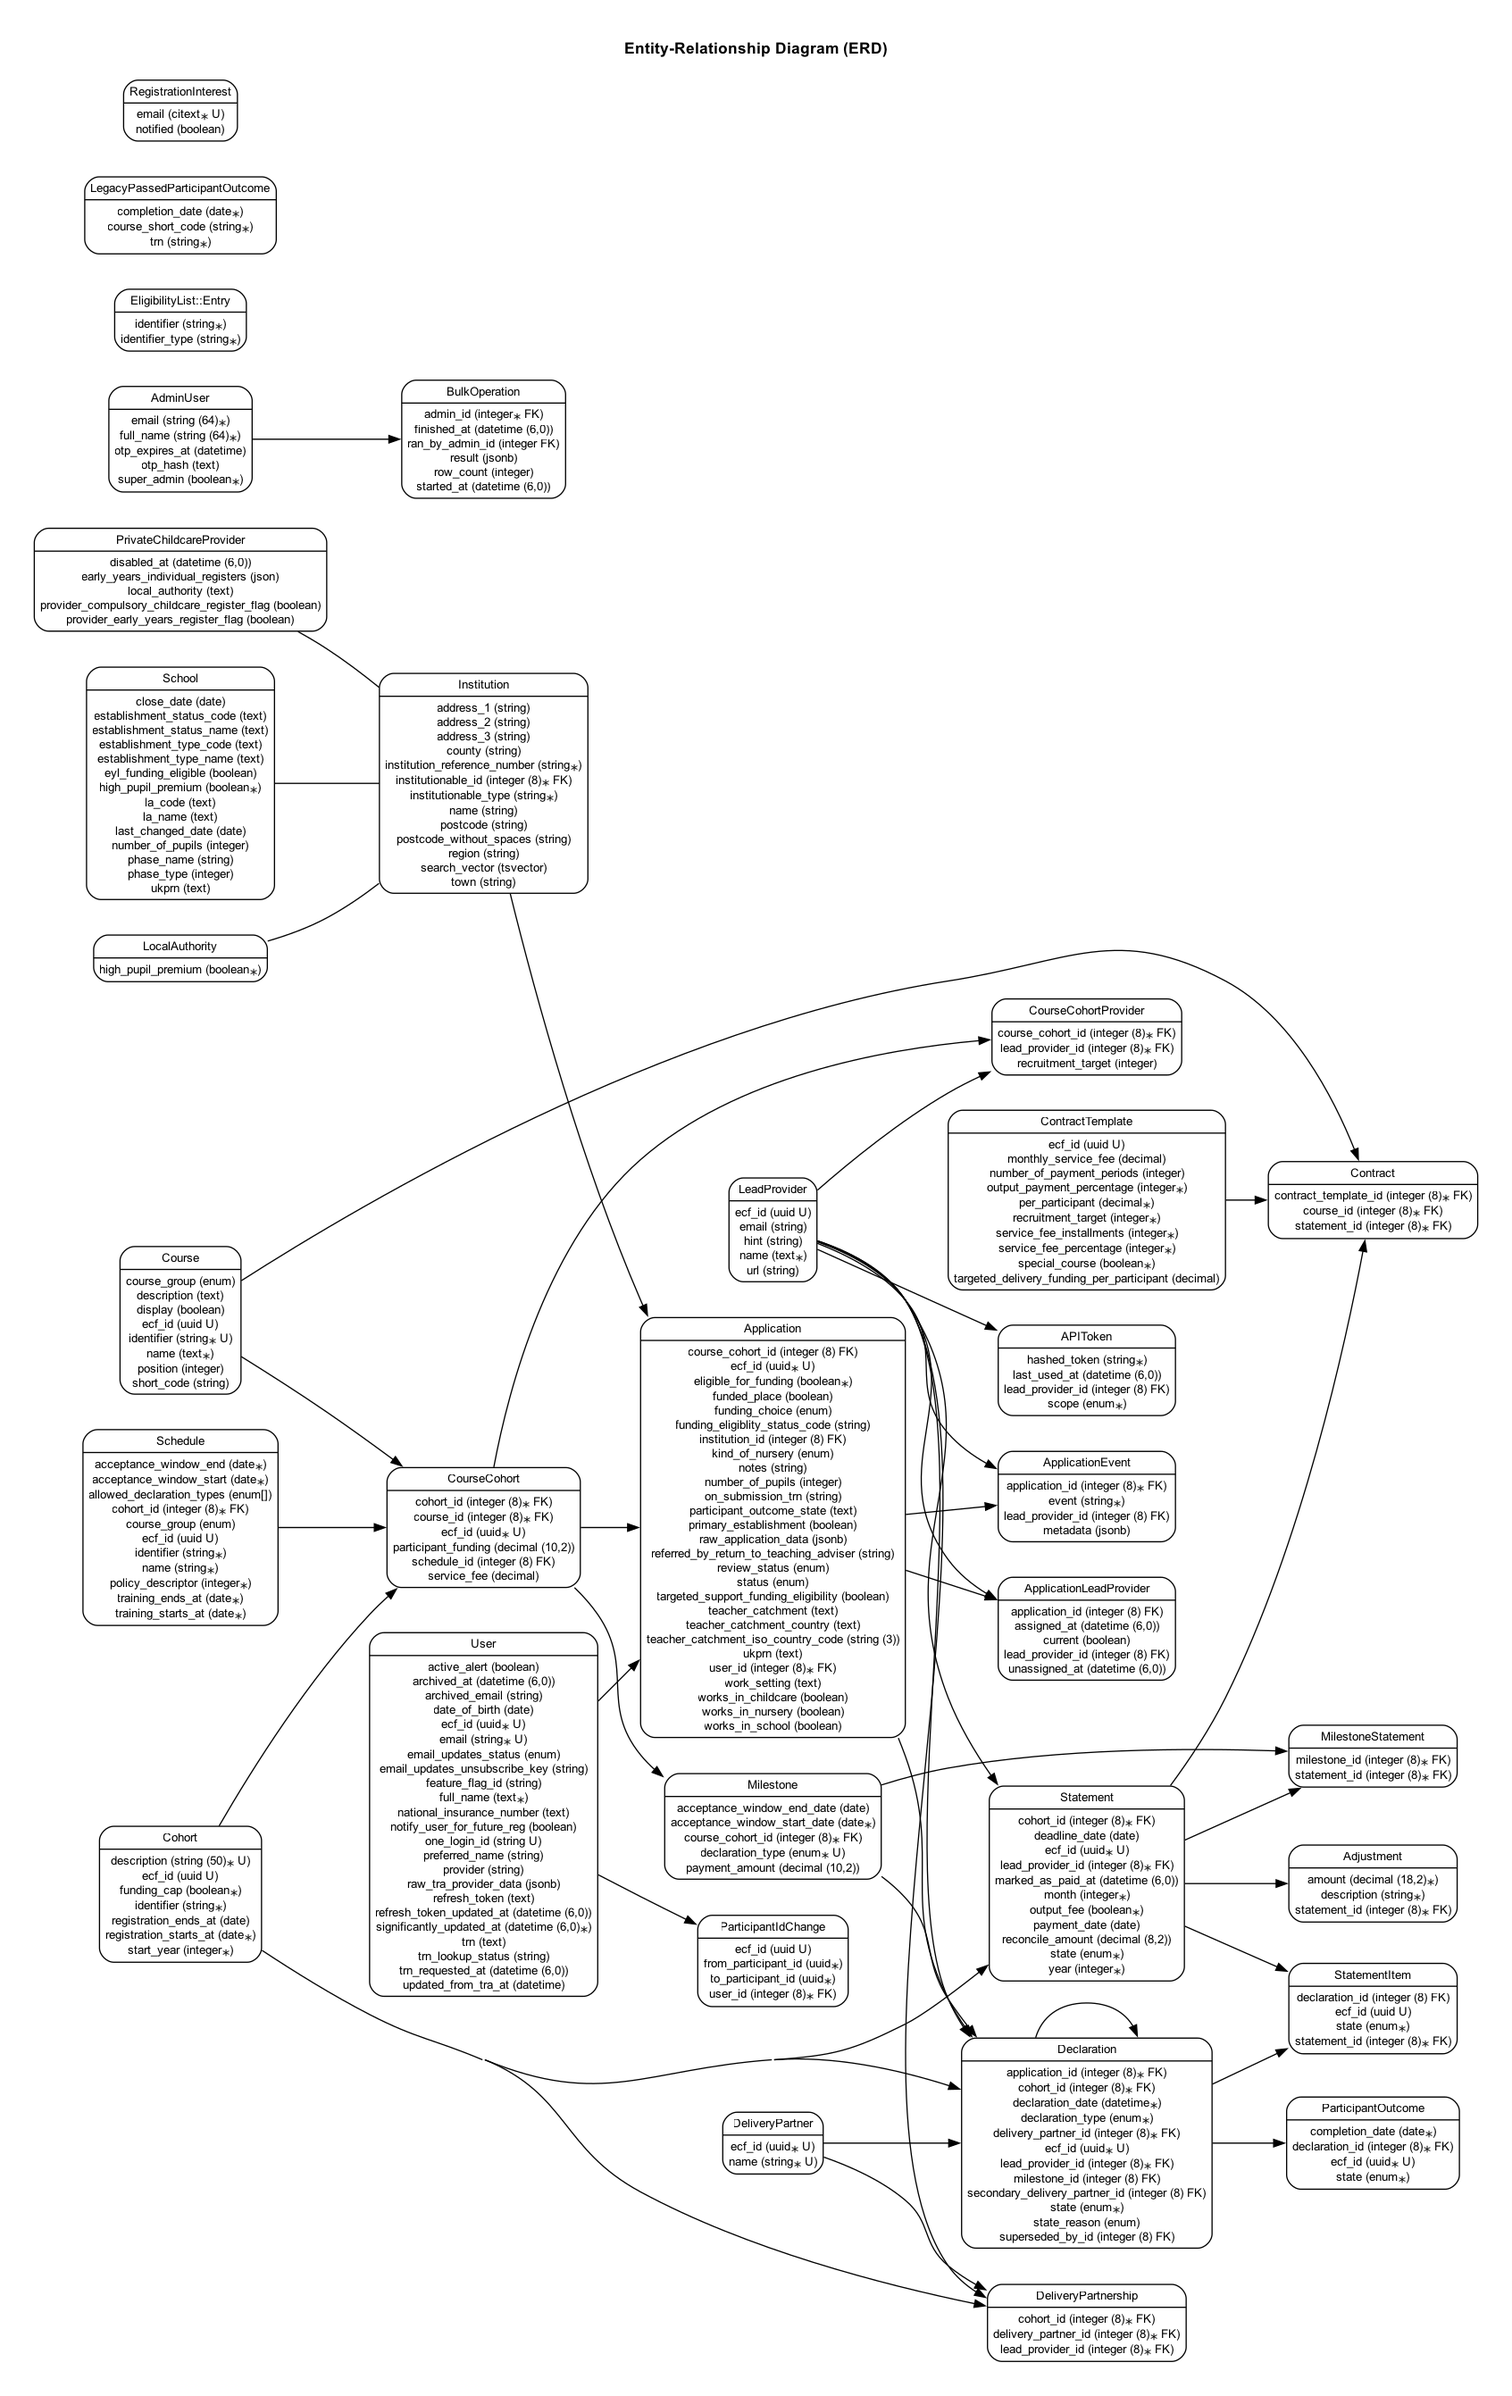
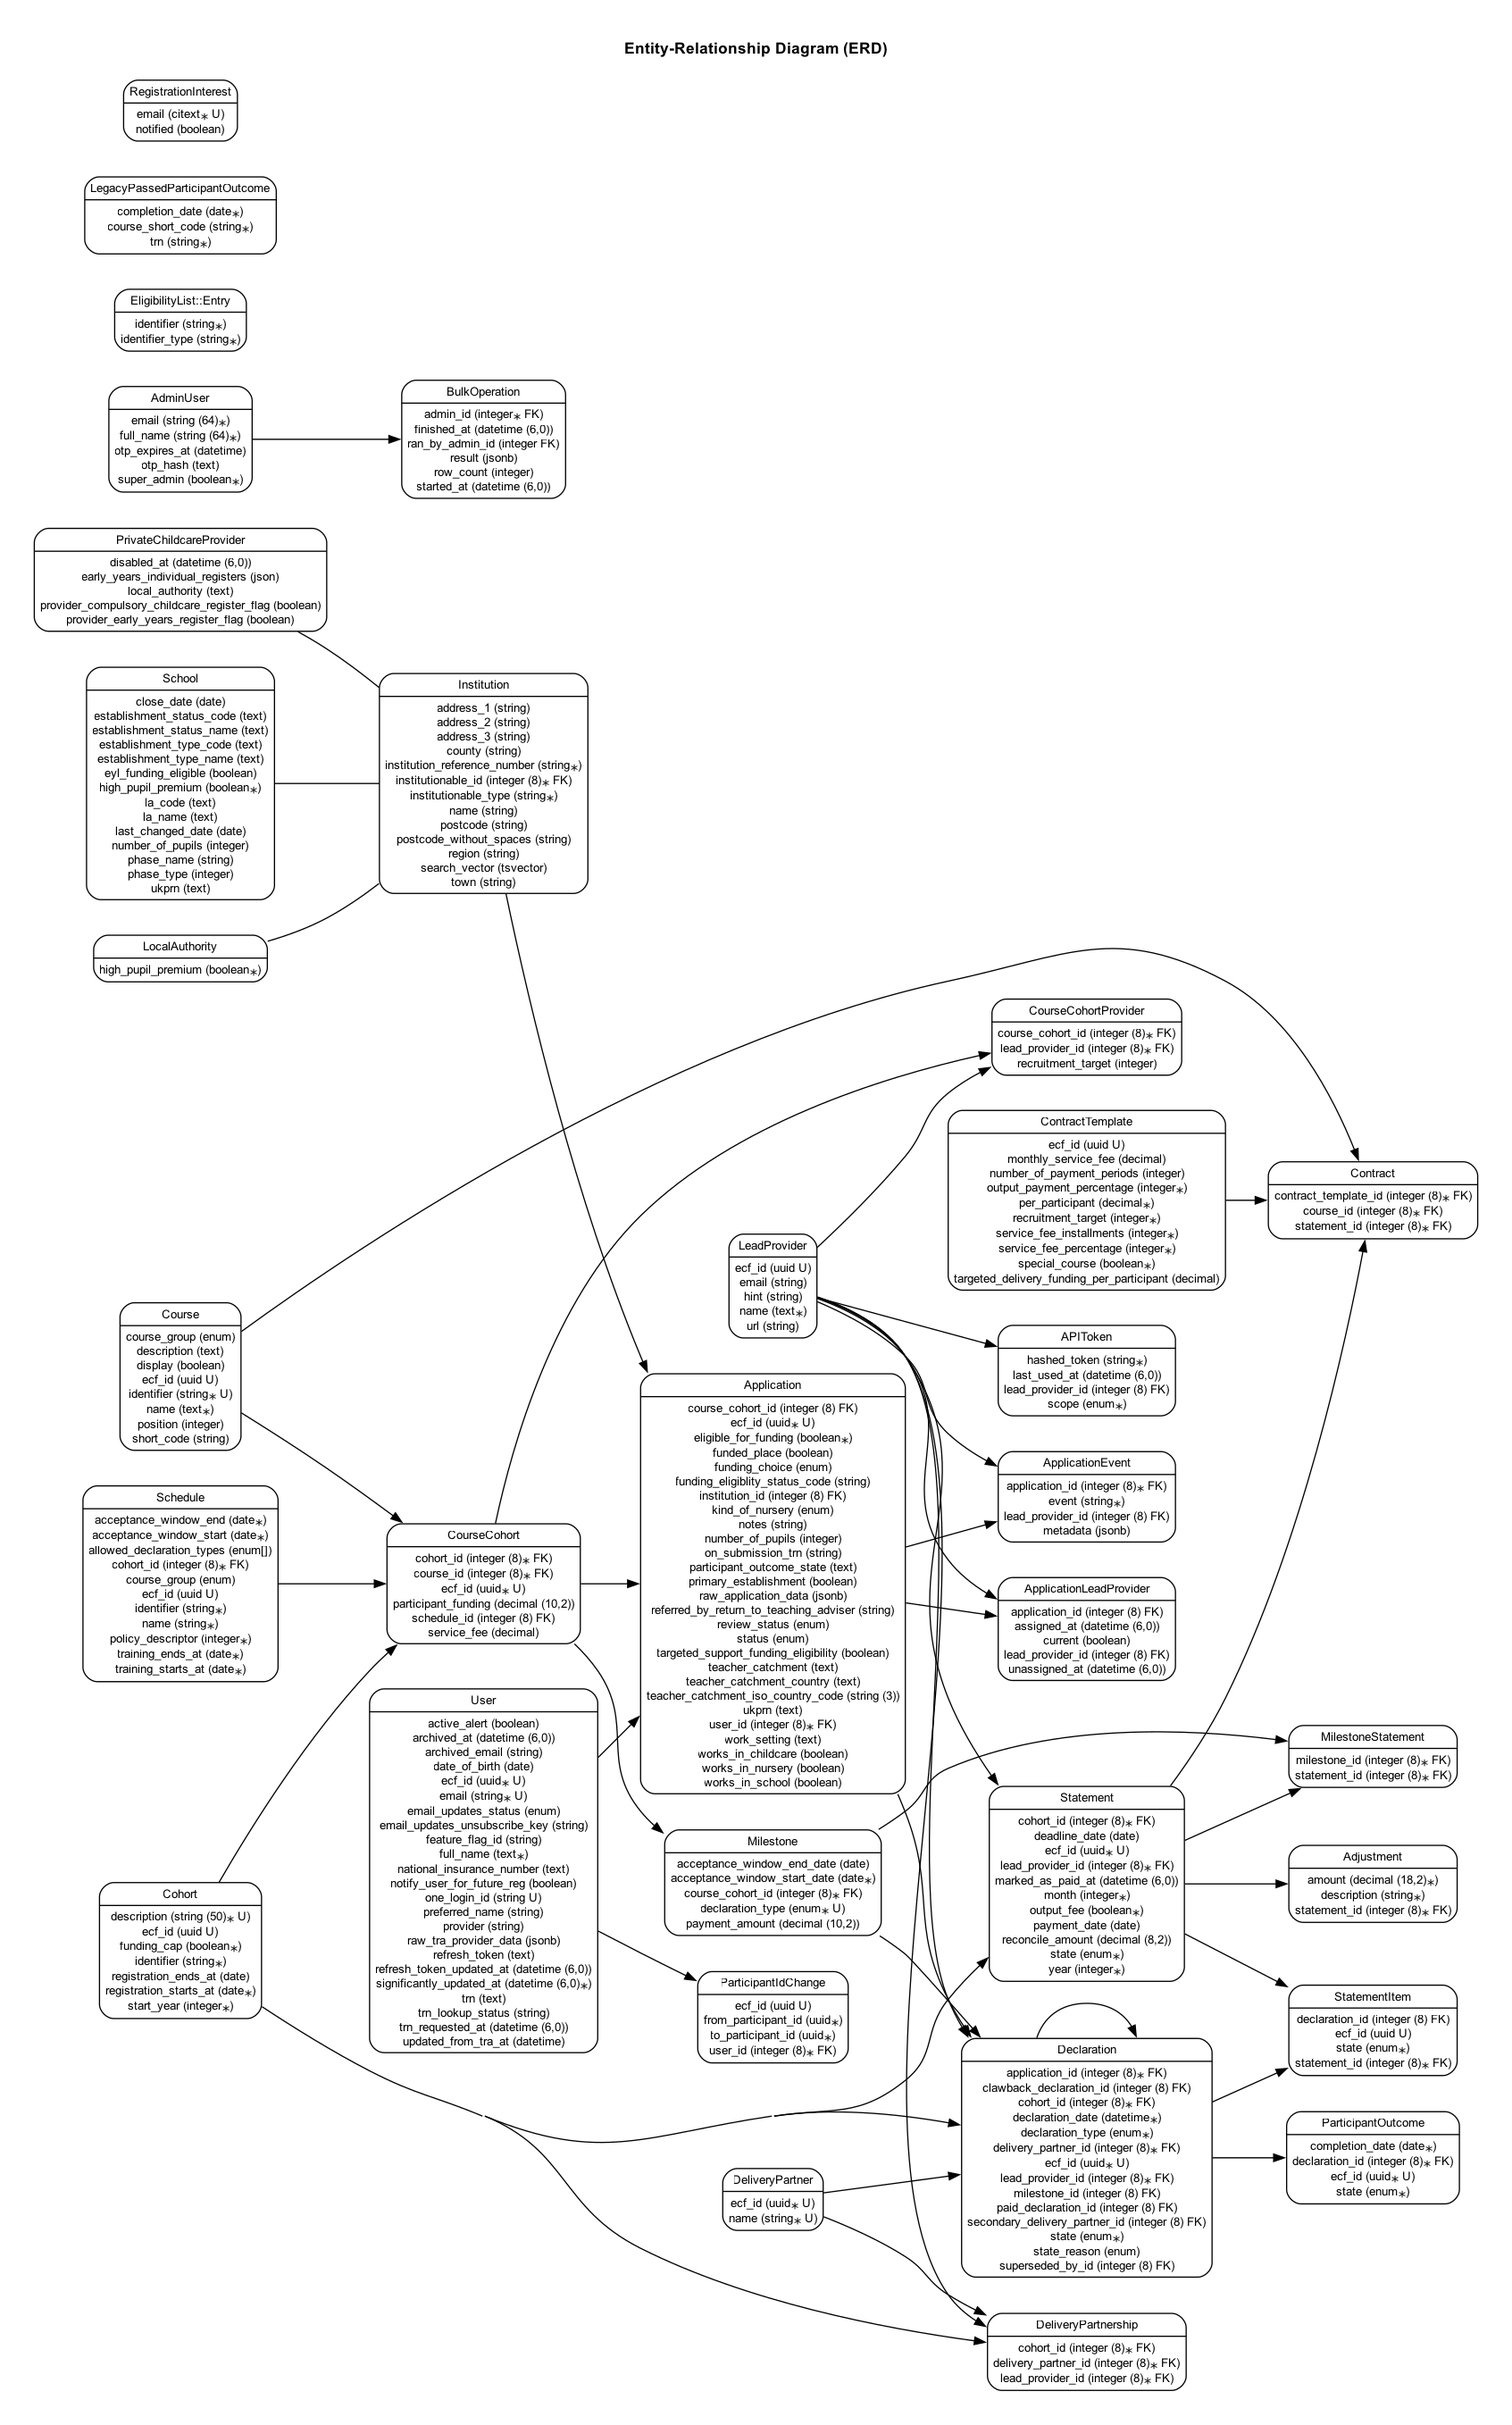
swagger

diff --git a/documentation/domain-model.md b/documentation/domain-model.md
@@ -74,29 +74,6 @@ erDiagram
     string name
     datetime updated_at
   }
-  Declaration {
-    integer id
-    integer application_id
-    integer cohort_id
-    datetime created_at
-    datetime declaration_date
-    enum declaration_type
-    integer delivery_partner_id
-    uuid ecf_id
-    integer lead_provider_id
-    integer secondary_delivery_partner_id
-    enum state
-    enum state_reason
-    integer superseded_by_id
-    datetime updated_at
-    integer milestone_id
-  }
-  Declaration }o--|| Application : belongs_to
-  Declaration }o--|| Cohort : belongs_to
-  Declaration }o--|| LeadProvider : belongs_to
-  Declaration }o--|| Declaration : belongs_to
-  Declaration }o--|| DeliveryPartner : belongs_to
-  Declaration }o--|| DeliveryPartner : belongs_to
   CourseCohortProvider {
     integer id
     integer course_cohort_id
@@ -146,6 +123,32 @@ erDiagram
     integer start_year
     datetime updated_at
   }
+  Declaration {
+    integer id
+    integer application_id
+    integer clawback_declaration_id
+    integer cohort_id
+    datetime created_at
+    datetime declaration_date
+    enum declaration_type
+    integer delivery_partner_id
+    uuid ecf_id
+    integer lead_provider_id
+    integer milestone_id
+    integer paid_declaration_id
+    integer secondary_delivery_partner_id
+    enum state
+    enum state_reason
+    integer superseded_by_id
+    string type
+    datetime updated_at
+  }
+  Declaration }o--|| Application : belongs_to
+  Declaration }o--|| Cohort : belongs_to
+  Declaration }o--|| LeadProvider : belongs_to
+  Declaration }o--|| Declaration : belongs_to
+  Declaration }o--|| DeliveryPartner : belongs_to
+  Declaration }o--|| DeliveryPartner : belongs_to
   ApplicationLeadProvider {
     integer id
     integer application_id
